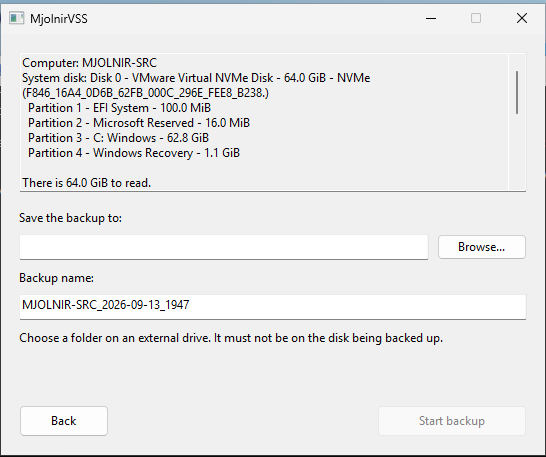
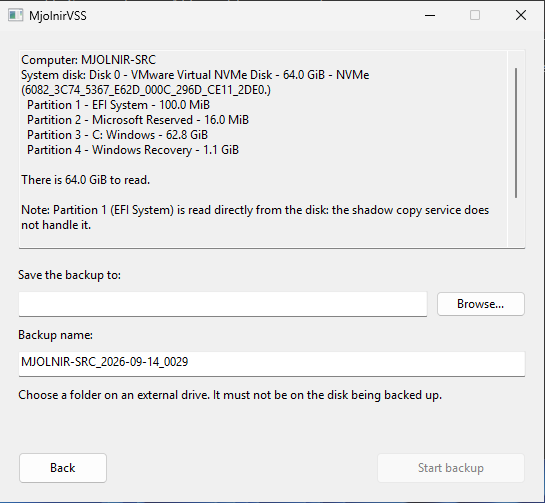
say what each thing on the main window does

diff --git a/apps/mjolnirvss/src/window.rs b/apps/mjolnirvss/src/window.rs
@@ -33,7 +33,7 @@ use mjolnir_win32_ui::{message_box, shell};
 /// Width of the window at 96 dpi.
 const WINDOW_WIDTH: i32 = 560;
 /// Height of the window at 96 dpi.
-const WINDOW_HEIGHT: i32 = 460;
+const WINDOW_HEIGHT: i32 = 510;
 /// Margin around the content at 96 dpi.
 const MARGIN: i32 = 18;
 /// Height of an ordinary button at 96 dpi.
@@ -49,6 +49,86 @@ const ID_RESTORE_FILES: i32 = 1002;
 const ID_RECOVERY_MEDIA: i32 = 1003;
 const ID_SETTINGS: i32 = 1004;
 const ID_EXIT: i32 = 1005;
+const ID_INTRO: i32 = 1006;
+const ID_BACKUP_NOTE: i32 = 1007;
+const ID_RESTORE_FILES_NOTE: i32 = 1008;
+const ID_RECOVERY_MEDIA_NOTE: i32 = 1009;
+const ID_SETTINGS_NOTE: i32 = 1010;
+const ID_FOOTER: i32 = 1011;
+
+/// What the program is, before anybody presses anything.
+///
+/// A window of five unlabelled verbs tells somebody who already knows what it
+/// does. This is for everybody else, and it is the first thing read.
+const INTRO_TEXT: &str =
+    "Copies this computer's Windows disk while Windows is running, so the whole thing can be put back onto a new disk after the old one fails.";
+
+const BACKUP_NOTE: &str =
+    "A complete copy of the Windows disk. You can carry on using the computer while it runs.";
+
+const RESTORE_FILES_NOTE: &str =
+    "Look inside a backup and copy files out of it. Nothing is erased.";
+
+const RECOVERY_MEDIA_NOTE: &str =
+    "Make the bootable disc you will need if this computer will not start. Do it before you need it.";
+
+const SETTINGS_NOTE: &str = "Nothing to configure yet.";
+
+/// The line along the bottom.
+///
+/// The version is there because the first question about a backup taken a year
+/// ago is which version took it, and the rest is the promise the product is
+/// built around.
+/// Where each thing on the main menu goes: `(top, height)`, in order.
+///
+/// Pure, and separate from the window, because the thing that was wrong with
+/// this screen could be measured: five buttons used the top half and the rest
+/// was grey. A layout that can be checked is a layout that can be checked for
+/// that.
+///
+/// The order is fixed: intro, then each action with its line under it, then the
+/// footer, which is pinned to the bottom rather than left to follow the
+/// buttons, so the window has a floor.
+fn menu_rows(height: i32, s: &dyn Fn(i32) -> i32) -> [(i32, i32); 11] {
+    let line = s(LINE);
+    let gap = s(14);
+    let mut rows = [(0, 0); 11];
+    let mut y = s(MARGIN);
+
+    let put = |index: usize, rows: &mut [(i32, i32); 11], y: &mut i32, h: i32, after: i32| {
+        rows[index] = (*y, h);
+        *y += h + after;
+    };
+
+    // What this is, before any of the verbs.
+    put(0, &mut rows, &mut y, line * 2, s(16));
+    // The primary action is taller and alone, so there is never a question
+    // about what to press. Each action carries its line four pixels under it.
+    put(1, &mut rows, &mut y, s(PRIMARY_HEIGHT), s(4));
+    put(2, &mut rows, &mut y, line, gap);
+    for pair in [(3, 4), (5, 6), (7, 8)] {
+        put(pair.0, &mut rows, &mut y, s(BUTTON_HEIGHT), s(4));
+        put(pair.1, &mut rows, &mut y, line, gap);
+    }
+    // Exit explains itself.
+    put(9, &mut rows, &mut y, s(BUTTON_HEIGHT), gap);
+
+    // Pinned to the bottom so the window has a floor. `height` is the client
+    // area, which is shorter than the window: nothing here adjusts for the
+    // title bar, so a footer pinned against a window sized rectangle landed on
+    // top of the Exit button. Taking whichever is lower means it can never do
+    // that again, whatever the window is sized to.
+    let pinned = height - s(MARGIN) - line;
+    rows[10] = (pinned.max(y), line);
+    rows
+}
+
+fn footer_text() -> String {
+    format!(
+        "MjolnirVSS {} - nothing is installed. Deleting this folder removes every trace.",
+        mjolnir_core::TOOL_VERSION
+    )
+}
 
 const ID_SUMMARY: i32 = 1100;
 const ID_DEST_LABEL: i32 = 1101;
@@ -110,6 +190,16 @@ struct Controls {
     settings: HWND,
     exit: HWND,
 
+    // The menu's words. Five buttons on their own say what they do only to
+    // somebody who already knows; a line under each says it to everybody else,
+    // and costs nothing to ignore.
+    intro: HWND,
+    backup_note: HWND,
+    restore_files_note: HWND,
+    recovery_media_note: HWND,
+    settings_note: HWND,
+    footer: HWND,
+
     summary: HWND,
     dest_label: HWND,
     dest_edit: HWND,
@@ -142,7 +232,7 @@ struct Controls {
 }
 
 impl Controls {
-    fn all(&self) -> [HWND; 31] {
+    fn all(&self) -> [HWND; 37] {
         [
             self.backup,
             self.restore_files,
@@ -175,18 +265,46 @@ impl Controls {
             self.browse_up,
             self.browse_extract,
             self.browse_back,
+            self.intro,
+            self.backup_note,
+            self.restore_files_note,
+            self.recovery_media_note,
+            self.settings_note,
+            self.footer,
+        ]
+    }
+
+    /// The things the main menu can actually do.
+    ///
+    /// Five, and the product says five. The text around them is not an action
+    /// and must never become one; [`Self::for_screen`] shows both, so this is
+    /// what the promise is checked against.
+    fn menu_actions(&self) -> [HWND; 5] {
+        [
+            self.backup,
+            self.restore_files,
+            self.recovery_media,
+            self.settings,
+            self.exit,
         ]
     }
 
     fn for_screen(&self, screen: Screen) -> Vec<HWND> {
         match screen {
-            Screen::Menu => vec![
-                self.backup,
-                self.restore_files,
-                self.recovery_media,
-                self.settings,
-                self.exit,
-            ],
+            Screen::Menu => {
+                // Built from the five actions rather than listing them again,
+                // so the menu and the promise about it cannot drift apart.
+                let mut menu = self.menu_actions().to_vec();
+                menu.extend([
+                    self.intro,
+                    self.backup_note,
+                    self.restore_files_note,
+                    self.recovery_media_note,
+                    self.settings_note,
+                    self.footer,
+                ]);
+                menu
+            }
             Screen::Destination => vec![
                 self.summary,
                 self.dest_label,
@@ -417,6 +535,26 @@ impl BackupWindow {
         c.settings = sys::create_control(h, ControlKind::Button, "Settings", ID_SETTINGS, f);
         c.exit = sys::create_control(h, ControlKind::Button, "Exit", ID_EXIT, f);
 
+        c.intro = sys::create_control(h, ControlKind::Label, INTRO_TEXT, ID_INTRO, f);
+        c.backup_note = sys::create_control(h, ControlKind::Label, BACKUP_NOTE, ID_BACKUP_NOTE, f);
+        c.restore_files_note = sys::create_control(
+            h,
+            ControlKind::Label,
+            RESTORE_FILES_NOTE,
+            ID_RESTORE_FILES_NOTE,
+            f,
+        );
+        c.recovery_media_note = sys::create_control(
+            h,
+            ControlKind::Label,
+            RECOVERY_MEDIA_NOTE,
+            ID_RECOVERY_MEDIA_NOTE,
+            f,
+        );
+        c.settings_note =
+            sys::create_control(h, ControlKind::Label, SETTINGS_NOTE, ID_SETTINGS_NOTE, f);
+        c.footer = sys::create_control(h, ControlKind::Label, &footer_text(), ID_FOOTER, f);
+
         c.summary = sys::create_control(h, ControlKind::TextArea, "", ID_SUMMARY, f);
         c.dest_label = sys::create_control(
             h,
@@ -506,19 +644,30 @@ impl BackupWindow {
 
         match self.screen {
             Screen::Menu => {
-                let mut y = s(MARGIN);
-                // The primary action is taller and sits alone at the top, so
-                // there is never a question about what to press.
-                sys::place(c.backup, sys::rect(x, y, inner, s(PRIMARY_HEIGHT)));
-                y += s(PRIMARY_HEIGHT) + s(MARGIN);
-                for hwnd in [c.restore_files, c.recovery_media, c.settings, c.exit] {
-                    sys::place(hwnd, sys::rect(x, y, inner, s(BUTTON_HEIGHT)));
-                    y += s(BUTTON_HEIGHT) + s(8);
+                let rows = menu_rows(client.bottom - client.top, &s);
+                for (row, hwnd) in rows.iter().zip([
+                    c.intro,
+                    c.backup,
+                    c.backup_note,
+                    c.restore_files,
+                    c.restore_files_note,
+                    c.recovery_media,
+                    c.recovery_media_note,
+                    c.settings,
+                    c.settings_note,
+                    c.exit,
+                    c.footer,
+                ]) {
+                    sys::place(hwnd, sys::rect(x, row.0, inner, row.1));
                 }
             }
             Screen::Destination => {
                 let mut y = s(MARGIN);
-                let summary_height = s(LINE) * 7;
+                // Tall enough to show a four partition disk without scrolling,
+                // which is what a normal Windows machine has. The box used to
+                // be seven lines and hid the last two behind a scroll bar, on
+                // the one screen whose whole job is to say what will be copied.
+                let summary_height = s(LINE) * 10;
                 sys::place(c.summary, sys::rect(x, y, inner, summary_height));
                 y += summary_height + s(MARGIN);
 
@@ -1595,15 +1744,146 @@ mod tests {
         assert_eq!(before, sorted.len(), "two controls share an identifier");
     }
 
+    /// The product promises five things on the main window. Words were added
+    /// around them; the count of things that can be *done* must not move.
     #[test]
     fn the_main_menu_has_exactly_the_five_documented_items() {
         let controls = Controls::default();
-        assert_eq!(controls.for_screen(Screen::Menu).len(), 5);
+        assert_eq!(controls.menu_actions().len(), 5);
+    }
+
+    /// Every control the menu screen shows has to be one of the five actions or
+    /// one of the six pieces of text, so a stray control cannot appear there.
+    #[test]
+    fn the_menu_screen_shows_only_its_actions_and_its_words() {
+        let controls = Controls::default();
+        assert_eq!(controls.for_screen(Screen::Menu).len(), 5 + 6);
+    }
+
+    /// The text has to say something. An empty label is a gap in the window
+    /// that looks like a bug.
+    #[test]
+    fn the_menu_text_is_not_empty() {
+        for text in [
+            INTRO_TEXT,
+            BACKUP_NOTE,
+            RESTORE_FILES_NOTE,
+            RECOVERY_MEDIA_NOTE,
+            SETTINGS_NOTE,
+        ] {
+            assert!(text.len() > 10, "{text:?}");
+            assert!(!text.contains("  "), "double space in {text:?}");
+        }
+        let footer = footer_text();
+        assert!(
+            footer.contains(mjolnir_core::TOOL_VERSION),
+            "the footer should name the version: {footer}"
+        );
     }
 
     #[test]
     fn the_default_backup_name_is_usable_as_a_folder() {
         let name = default_name();
         assert!(BackupName::new(name.as_str()).is_ok(), "{name}");
+    }
+    /// The client area is shorter than the window, because nothing adjusts for
+    /// the title bar and border. Laying out against the window height is what
+    /// put the footer on top of the Exit button, so the tests measure against
+    /// something smaller than `WINDOW_HEIGHT`, as the real screen does.
+    const CHROME: i32 = 40;
+
+    /// The complaint this screen was reworked for: five buttons occupied the
+    /// top 230 pixels of a 460 pixel window and the rest was empty grey.
+    #[test]
+    fn the_menu_fills_its_window() {
+        let height = WINDOW_HEIGHT - CHROME;
+        let rows = menu_rows(height, &|v| v);
+        let last_before_footer = rows[9].0 + rows[9].1;
+        let footer_top = rows[10].0;
+
+        assert!(
+            last_before_footer > height / 2,
+            "the menu still stops in the top half: {last_before_footer} of {height}"
+        );
+        assert!(
+            footer_top > last_before_footer,
+            "the footer must sit below the buttons, not on top of them"
+        );
+        assert!(
+            rows[10].0 + rows[10].1 <= height - MARGIN + 1,
+            "the footer runs off the bottom"
+        );
+    }
+
+    /// Nothing on the menu may sit on top of anything else, at any scale, and
+    /// in a client area shorter than the window it was sized from.
+    #[test]
+    fn nothing_on_the_menu_overlaps() {
+        for factor in [1, 2, 3] {
+            let height = (WINDOW_HEIGHT - CHROME) * factor;
+            let rows = menu_rows(height, &|v| v * factor);
+            for pair in rows.windows(2) {
+                let (top, size) = pair[0];
+                let (next_top, _) = pair[1];
+                assert!(size > 0, "a row with no height at scale {factor}");
+                assert!(
+                    top + size <= next_top,
+                    "rows overlap at scale {factor}: {top}+{size} runs into {next_top}"
+                );
+            }
+        }
+    }
+
+    /// Every action keeps its line directly under it, which is what makes the
+    /// line read as belonging to the button rather than to the next one.
+    #[test]
+    fn each_note_sits_under_its_own_button() {
+        let rows = menu_rows(WINDOW_HEIGHT - CHROME, &|v| v);
+        for (button, note) in [(1, 2), (3, 4), (5, 6), (7, 8)] {
+            let below = rows[note].0 - (rows[button].0 + rows[button].1);
+            assert!(
+                (0..=6).contains(&below),
+                "note {note} sits {below} pixels under button {button}"
+            );
+        }
+    }
+
+    /// A window far shorter than the content still may not stack the footer on
+    /// a button. It may run out of room; it may not lie about where things are.
+    #[test]
+    fn a_short_window_never_stacks_the_footer_on_a_button() {
+        for height in [120, 200, 300, WINDOW_HEIGHT - CHROME, 900] {
+            let rows = menu_rows(height, &|v| v);
+            let exit = rows[9];
+            assert!(
+                rows[10].0 >= exit.0 + exit.1,
+                "at {height} the footer at {} lands on Exit at {}..{}",
+                rows[10].0,
+                exit.0,
+                exit.0 + exit.1
+            );
+        }
+    }
+
+    /// Each line under a button has to fit on one line.
+    ///
+    /// A character budget rather than a measured width, which is a proxy: the
+    /// real check is the screenshot. It exists because one of these notes
+    /// shipped a sentence that ran off the right edge and was cut mid word, and
+    /// a budget catches the next one before a virtual machine has to.
+    #[test]
+    fn every_note_fits_on_one_line() {
+        for note in [
+            BACKUP_NOTE,
+            RESTORE_FILES_NOTE,
+            RECOVERY_MEDIA_NOTE,
+            SETTINGS_NOTE,
+        ] {
+            assert!(
+                note.len() <= 95,
+                "{} characters will not fit on one line: {note:?}",
+                note.len()
+            );
+        }
     }
 }
